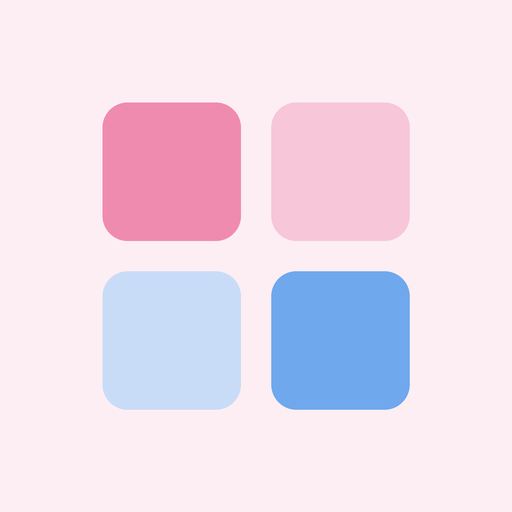
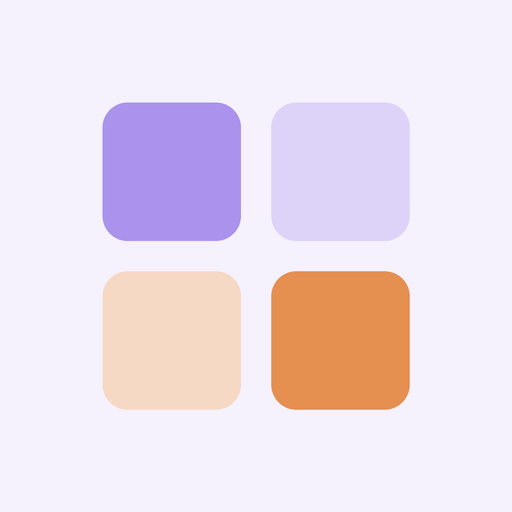
Violet/orange defaults, 36-color picker, plain card backs (#3)
Claude-Session: https://claude.ai/code/session_01PuK9W4ycuyRt3WyfCywoqp

diff --git a/app.js b/app.js
@@ -6,16 +6,17 @@ const THUMB_SIZE = 480;
 const MISS_DELAY = 1200;
 const STORE_KEY = 'memory-eh:v1';
 
+// 36 Farbtöne rund um den Farbkreis (OKLCH, gleiche Helligkeit/Sättigung)
 const PALETTE = [
-  '#f08bb0', // rosa
-  '#f4978e', // koralle
-  '#f6b26b', // pfirsich
-  '#e5c04a', // gelb
-  '#7cc48a', // grün
-  '#5ec4b6', // mint
-  '#6fa8ec', // blau
-  '#a98bea', // lila
+  '#e8809a', '#ea808a', '#eb827b', '#ea856c', '#e8895d', '#e58f51',
+  '#e39849', '#e1a447', '#deb14a', '#d7bc50', '#cac155', '#b6c259',
+  '#9ebf5f', '#86bd67', '#6fbd73', '#58bd81', '#40be90', '#21bfa0',
+  '#08beaf', '#08bcbc', '#09bac9', '#0bb8d6', '#22b5e1', '#3fb1ea',
+  '#56acf0', '#6aa7f4', '#7ca2f6', '#8d9df5', '#9d98f2', '#ab93ed',
+  '#b88fe6', '#c38adc', '#cd87d1', '#d684c5', '#de82b7', '#e380a9',
 ];
+const VIOLET = '#ab93ed';
+const ORANGE = '#e58f51';
 
 const $ = (sel, root = document) => root.querySelector(sel);
 const $$ = (sel, root = document) => [...root.querySelectorAll(sel)];
@@ -34,8 +35,8 @@ const sheet = $('.sheet');
 
 const state = {
   players: [
-    { name: 'Elisa', color: PALETTE[0], score: 0 },
-    { name: 'Hanna', color: PALETTE[6], score: 0 },
+    { name: 'Elisa', color: VIOLET, score: 0 },
+    { name: 'Hanna', color: ORANGE, score: 0 },
   ],
   turn: 0,
   starter: 0,
@@ -69,7 +70,7 @@ function load() {
     if (Array.isArray(s.players) && s.players.length === 2) {
       s.players.forEach((p, i) => {
         if (typeof p.name === 'string' && p.name) state.players[i].name = p.name;
-        if (typeof p.color === 'string') state.players[i].color = p.color;
+        if (PALETTE.includes(p.color)) state.players[i].color = p.color;
         state.players[i].score = Number(p.score) || 0;
       });
     }

diff --git a/style.css b/style.css
@@ -1,17 +1,16 @@
 @property --c {
   syntax: '<color>';
   inherits: true;
-  initial-value: #f08bb0;
+  initial-value: #ab93ed;
 }
 
 :root {
-  --c: #f08bb0;
-  --p0: #f08bb0;
-  --p1: #6fa8ec;
+  --c: #ab93ed;
+  --p0: #ab93ed;
+  --p1: #e58f51;
   --bg: color-mix(in oklab, var(--c) 12%, white);
   --surface: color-mix(in oklab, var(--c) 24%, white);
   --back: color-mix(in oklab, var(--c) 55%, white);
-  --back-dot: color-mix(in oklab, var(--c) 30%, white);
   --accent: color-mix(in oklab, var(--c) 90%, black);
   --ink: color-mix(in oklab, var(--c) 30%, #262330);
   --muted: color-mix(in oklab, var(--c) 45%, #8a8494);
@@ -324,18 +323,6 @@ h1 {
   background: var(--back);
 }
 
-.back::after {
-  content: '';
-  position: absolute;
-  left: 50%;
-  top: 50%;
-  width: 22%;
-  height: 22%;
-  border-radius: 50%;
-  background: var(--back-dot);
-  transform: translate(-50%, -50%);
-}
-
 .front {
   transform: rotateY(180deg);
   background: white;
@@ -411,19 +398,19 @@ h1 {
 
 .swatches {
   display: grid;
-  grid-template-columns: repeat(4, 52px);
-  gap: 14px;
+  grid-template-columns: repeat(6, 40px);
+  gap: 12px;
   padding: 4px 0 6px;
 }
 
 .swatch {
-  width: 52px;
-  height: 52px;
+  width: 40px;
+  height: 40px;
   border-radius: 50%;
   background: var(--sc);
 }
 
-.swatch.selected { box-shadow: 0 0 0 3px white, 0 0 0 6px var(--sc); }
+.swatch.selected { box-shadow: 0 0 0 3px white, 0 0 0 5px var(--sc); }
 .swatch:disabled { opacity: .2; }
 
 .menu-list {

diff --git a/index.html b/index.html
@@ -4,7 +4,7 @@
   <meta charset="utf-8">
   <meta name="viewport" content="width=device-width, initial-scale=1, viewport-fit=cover, user-scalable=no">
   <title>Memory</title>
-  <meta name="theme-color" content="#fdeef3">
+  <meta name="theme-color" content="#f5f1fd">
   <meta name="apple-mobile-web-app-capable" content="yes">
   <meta name="mobile-web-app-capable" content="yes">
   <meta name="apple-mobile-web-app-status-bar-style" content="default">
